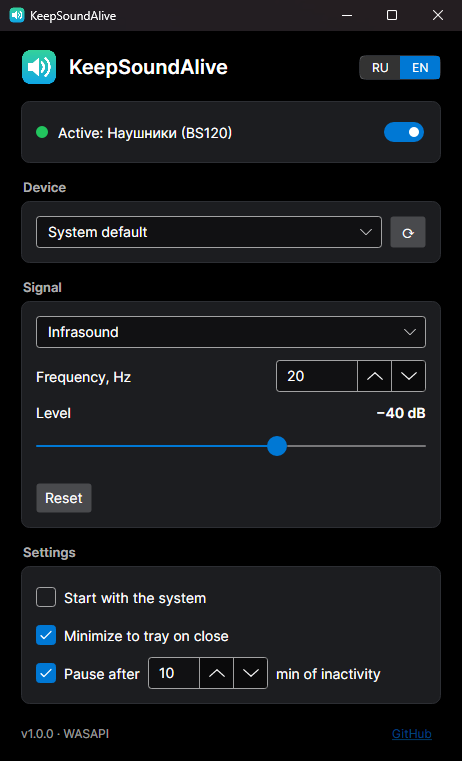
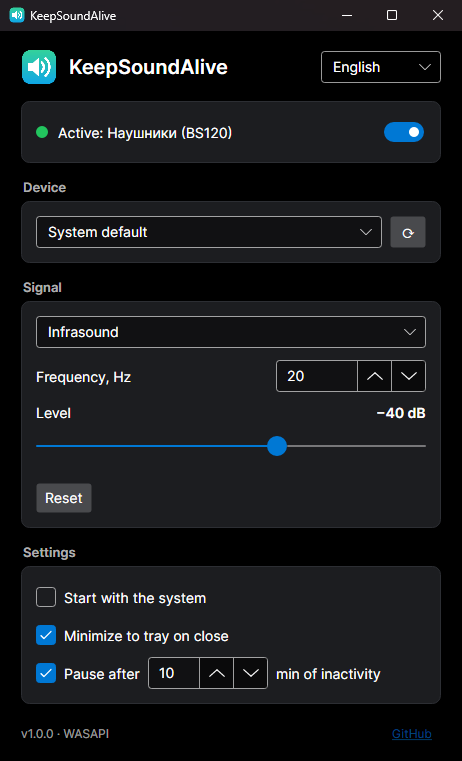
Language dropdown, English by default
- Replace the RU | EN switch in the header with an English/Русский dropdown.
- English is the default; the system language is no longer auto-detected.
  Older "auto" settings are treated as English.
- Refresh README screenshots.

Changed region(s): [[0.697, 0.0604, 0.9697, 0.1209]]

diff --git a/src/KeepSoundAlive/ViewModels/MainViewModel.cs b/src/KeepSoundAlive/ViewModels/MainViewModel.cs
@@ -77,6 +77,7 @@ public sealed partial class MainViewModel : ObservableObject, IDisposable
         _suppress = true;
         LoadSignalSettings();
         SelectedDevice = Devices[^1];
+        SelectedLanguage = Languages.First(l => (string)l.Value == T.Code);
         Enabled = settings.Enabled;
         StartWithSystem = AutoStart.IsEnabled;
         ShowInMenu = OperatingSystem.IsLinux() && LinuxDesktop.IsInMenu;
@@ -432,44 +433,28 @@ public sealed partial class MainViewModel : ObservableObject, IDisposable
                          UserIdle.GetIdleTime() >= TimeSpan.FromMinutes(Math.Max(1, _settings.IdleMinutes));
     }
 
-    // ---- Language (RU | EN switch; until the user picks one, the system language is used) ----
+    // ---- Language ----
 
-    public bool IsRussian
-    {
-        get => T.Code == "ru";
-        set
-        {
-            if (value)
-            {
-                SetLanguage("ru");
-            }
-        }
-    }
+    // Each language is listed under its own name, so these never need translating.
+    public IReadOnlyList<OptionItem> Languages { get; } =
+    [
+        new("en", "English"),
+        new("ru", "Русский"),
+    ];
 
-    public bool IsEnglish
-    {
-        get => T.Code == "en";
-        set
-        {
-            if (value)
-            {
-                SetLanguage("en");
-            }
-        }
-    }
+    [ObservableProperty]
+    public partial OptionItem? SelectedLanguage { get; set; }
 
-    private void SetLanguage(string code)
+    partial void OnSelectedLanguageChanged(OptionItem? value)
     {
-        if (T.Code == code)
+        if (_suppress || value is null || (string)value.Value == T.Code)
         {
             return;
         }
 
-        _settings.Language = code;
+        _settings.Language = (string)value.Value;
         ScheduleSave();
-        T = Strings.For(code);
-        OnPropertyChanged(nameof(IsRussian));
-        OnPropertyChanged(nameof(IsEnglish));
+        T = Strings.For(_settings.Language);
         Localize();
     }
 

diff --git a/src/KeepSoundAlive/Services/Strings.cs b/src/KeepSoundAlive/Services/Strings.cs
@@ -1,5 +1,3 @@
-using System.Runtime.InteropServices;
-
 namespace KeepSoundAlive.Services;
 
 /// <summary>UI texts. One instance per language; the view model swaps the instance when the language changes.</summary>
@@ -106,45 +104,6 @@ public sealed class Strings
         TrayExit = "Выход",
     };
 
-    /// <summary>"ru" or "en"; anything else (the "auto" default) means the system language.</summary>
-    public static Strings For(string? language) => language switch
-    {
-        "ru" => Russian,
-        "en" => English,
-        _ => DetectSystemLanguage() == "ru" ? Russian : English,
-    };
-
-    /// <summary>
-    /// The app runs in invariant globalization mode (no ICU dependency on Linux), so CultureInfo can't be used;
-    /// ask the OS directly instead.
-    /// </summary>
-    public static string DetectSystemLanguage()
-    {
-        try
-        {
-            if (OperatingSystem.IsWindows())
-            {
-                const int langRussian = 0x19;
-                return (GetUserDefaultUILanguage() & 0x3FF) == langRussian ? "ru" : "en";
-            }
-
-            foreach (var name in new[] { "LANGUAGE", "LC_ALL", "LC_MESSAGES", "LANG" })
-            {
-                var value = Environment.GetEnvironmentVariable(name);
-                if (!string.IsNullOrEmpty(value))
-                {
-                    return value.StartsWith("ru", StringComparison.OrdinalIgnoreCase) ? "ru" : "en";
-                }
-            }
-        }
-        catch
-        {
-            // Fall through to English.
-        }
-
-        return "en";
-    }
-
-    [DllImport("kernel32.dll")]
-    private static extern ushort GetUserDefaultUILanguage();
+    /// <summary>"ru" gives Russian; anything else (including older "auto" settings) gives English.</summary>
+    public static Strings For(string? language) => language == "ru" ? Russian : English;
 }

diff --git a/src/KeepSoundAlive/Services/AppSettings.cs b/src/KeepSoundAlive/Services/AppSettings.cs
@@ -34,8 +34,8 @@ public sealed class AppSettings
 
     public bool CloseToTray { get; set; } = true;
 
-    /// <summary>"auto", "en" or "ru".</summary>
-    public string Language { get; set; } = "auto";
+    /// <summary>"en" or "ru".</summary>
+    public string Language { get; set; } = "en";
 
     public double LevelFor(SignalMode mode) => mode switch
     {
